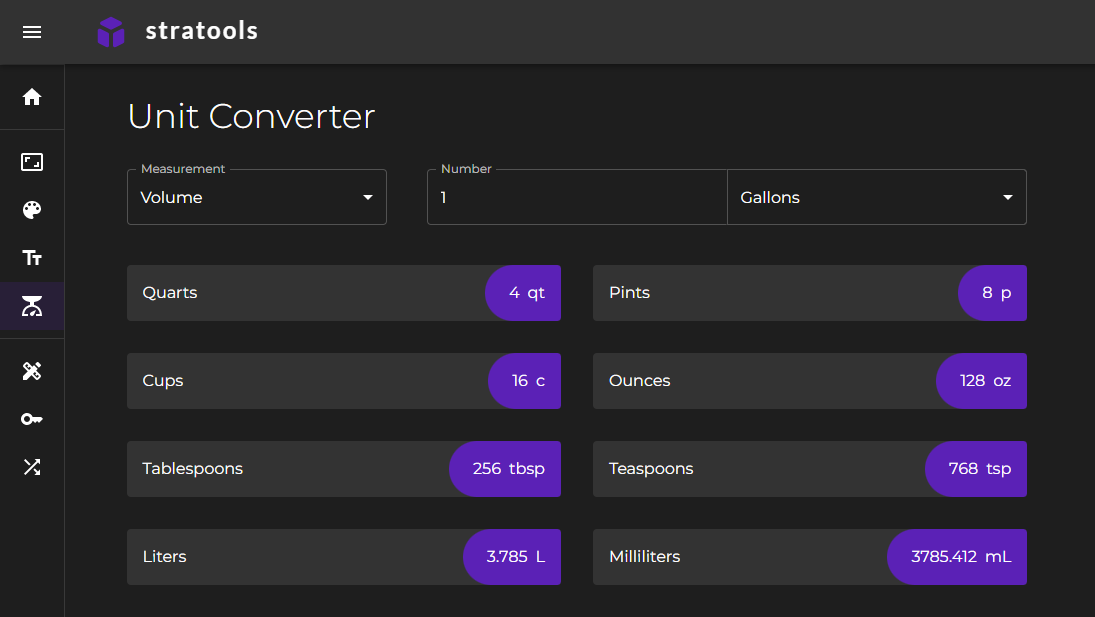
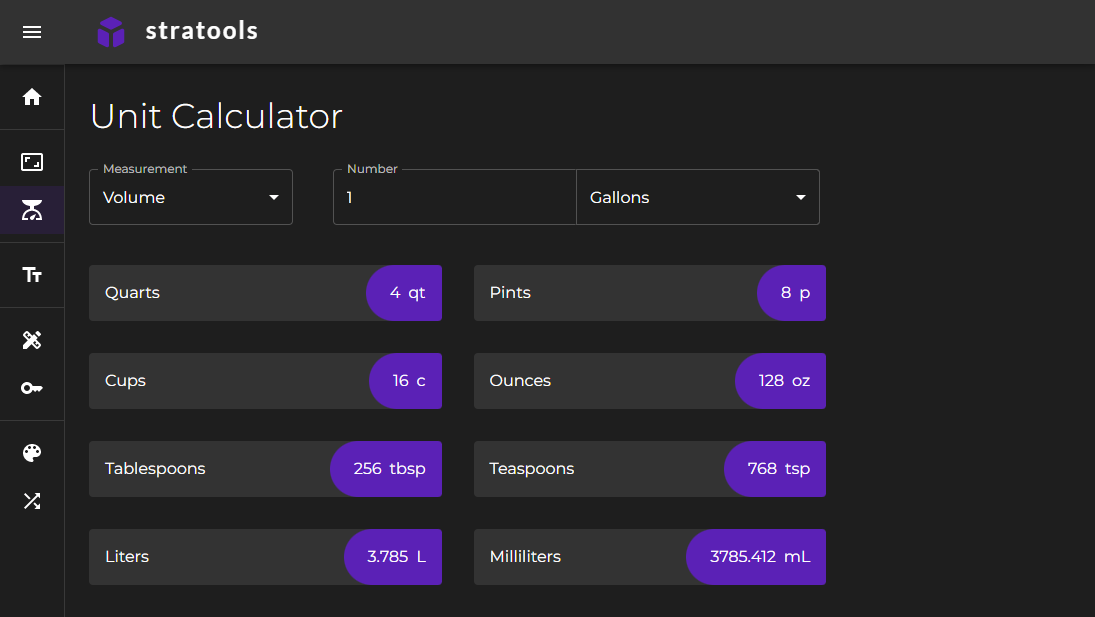
screenshot update and home name links

diff --git a/constants/routes.js b/constants/routes.js
@@ -21,6 +21,7 @@ export const calculateRoutes = [
     {
         path: '/calculate/aspect-ratio',
         name: 'Aspect Ratio',
+        homeName: 'Aspect Ratio',
         key: 'aspect-ratio',
         icon: <AspectRatioIcon />,
         description: 'Calculate the aspect ratio.',
@@ -28,6 +29,7 @@ export const calculateRoutes = [
     {
         path: '/calculate/units',
         name: 'Units',
+        homeName: 'Unit Calculator',
         key: 'unit-calculator',
         icon: <ScaleIcon />,
         description: 'Calculate different unit types.',
@@ -38,6 +40,7 @@ export const formatRoutes = [
     {
         path: '/format/text',
         name: 'Text',
+        homeName: 'Text Formatter',
         key: 'text-formatter',
         icon: <TextFieldsIcon />,
         description: 'Format text to any case.',
@@ -48,6 +51,7 @@ export const generateRoutes = [
     {
         path: '/generate/email-signature',
         name: 'Email Signature',
+        homeName: 'Email Signature',
         key: 'email-signature',
         icon: <DesignServicesIcon />,
         description: 'Create an email signature.',
@@ -55,6 +59,7 @@ export const generateRoutes = [
     {
         path: '/generate/password',
         name: 'Password',
+        homeName: 'Password Generator',
         key: 'password-generator',
         icon: <KeyIcon />,
         description: 'Create a strong password.',
@@ -65,6 +70,7 @@ export const pickerRoutes = [
     {
         path: '/picker/color',
         name: 'Color',
+        homeName: 'Color Picker',
         key: 'color-picker',
         icon: <ColorLensIcon />,
         description: 'Choose a color in HEX, RGB or HSL.',
@@ -72,6 +78,7 @@ export const pickerRoutes = [
     {
         path: '/picker/random',
         name: 'Random',
+        homeName: 'Random Picker',
         key: 'random-picker',
         icon: <ShuffleIcon />,
         description: 'Get a random number or item.',

diff --git a/pages/index.js b/pages/index.js
@@ -17,7 +17,7 @@ const Home = () => {
                     alignItems: 'center',
                     gap: '30px',
                 }}>
-                {allRoutes.map(({ key, path, name, icon, description }) => (
+                {allRoutes.map(({ key, path, homeName, icon, description }) => (
                     <Card
                         key={key}
                         color='secondary'
@@ -37,7 +37,7 @@ const Home = () => {
                             }}>
                             <Link href={path} passHref={true}>
                                 <IconButton
-                                    aria-label={name}
+                                    aria-label={homeName}
                                     color='primary'
                                     sx={{
                                         '& svg': {
@@ -50,7 +50,7 @@ const Home = () => {
                         </Box>
                         <CardContent>
                             <Typography gutterBottom variant='h5' component='div'>
-                                {name}
+                                {homeName}
                             </Typography>
                             <Typography variant='body2'>{description}</Typography>
                         </CardContent>
